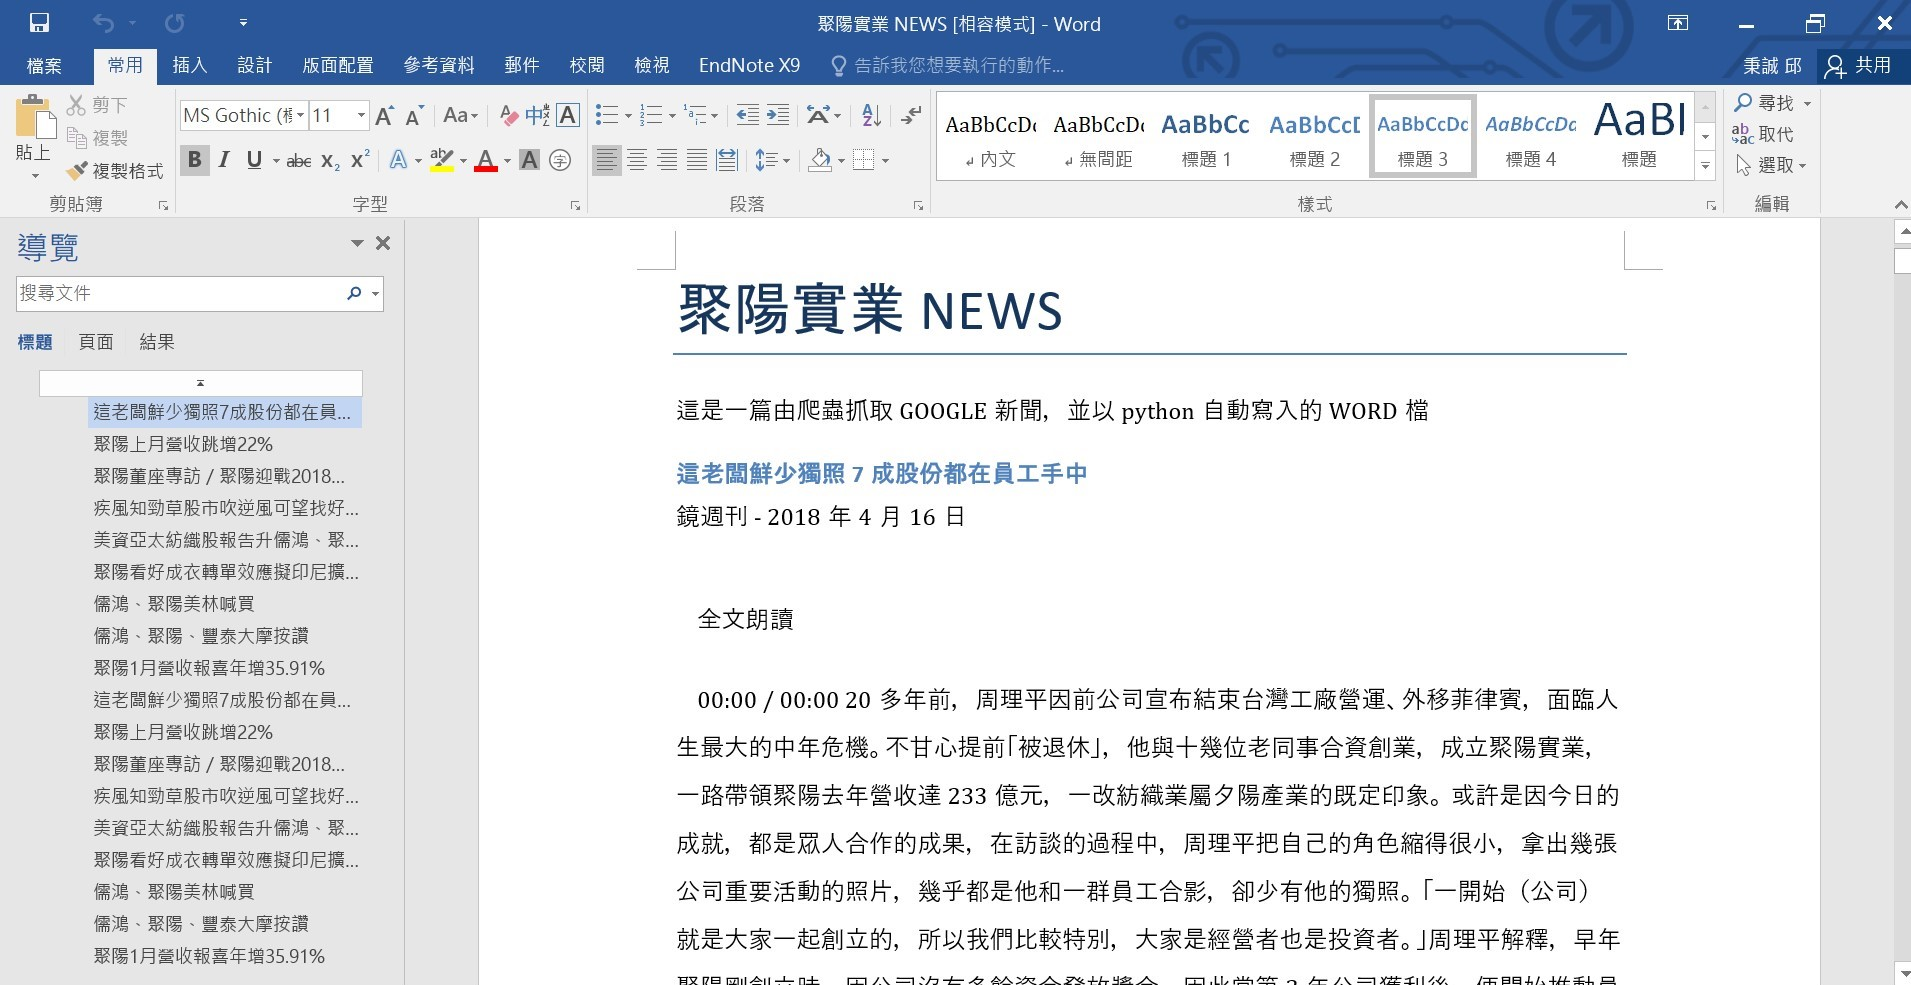
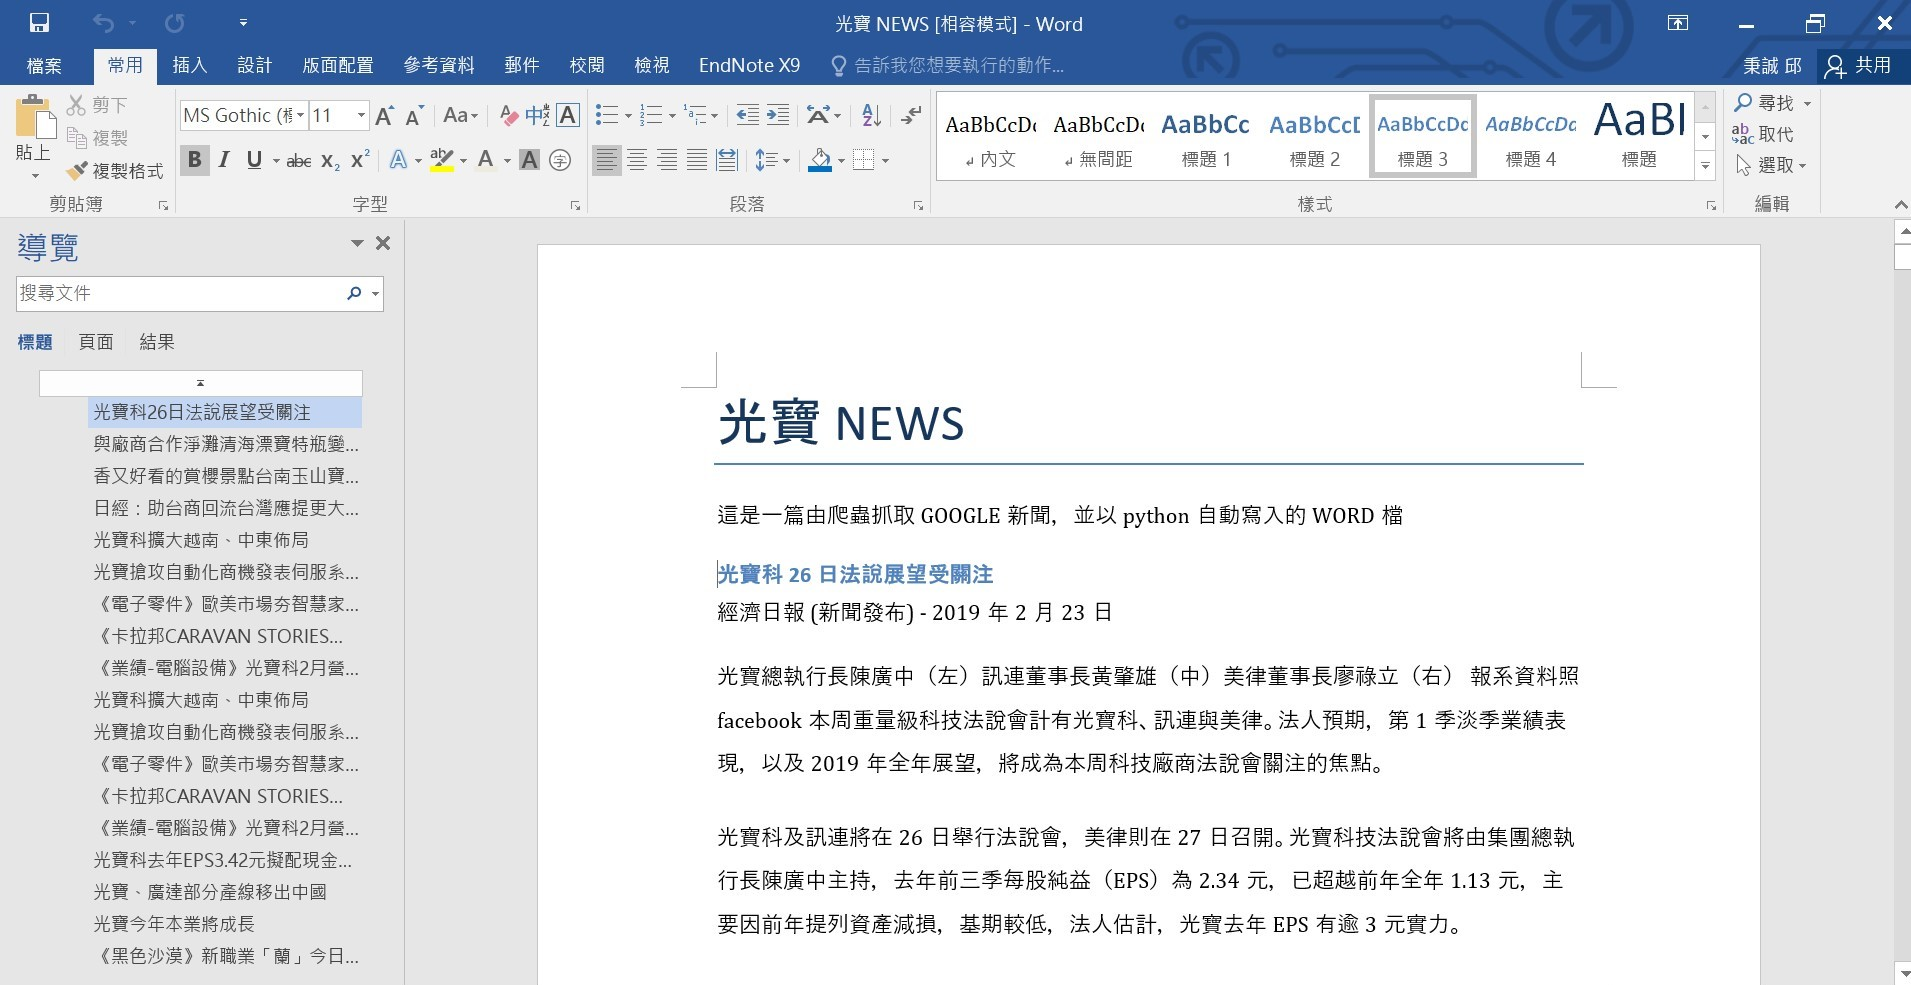
go

diff --git a/README.md b/README.md
@@ -15,7 +15,7 @@
 
 ### 3.檢視文字雲
 
-![聚陽實業 NEWS](https://github.com/vbjc5275/news_crawler/raw/master/Crawler/image/%E8%81%9A%E9%99%BD%E5%AF%A6%E6%A5%AD%20NEWS.png)
+![光寶 NEWS](<https://github.com/vbjc5275/news_crawler/raw/master/Crawler/image/光寶 NEWS.png)
 
 ## 範例2 - 影像辨識
 
